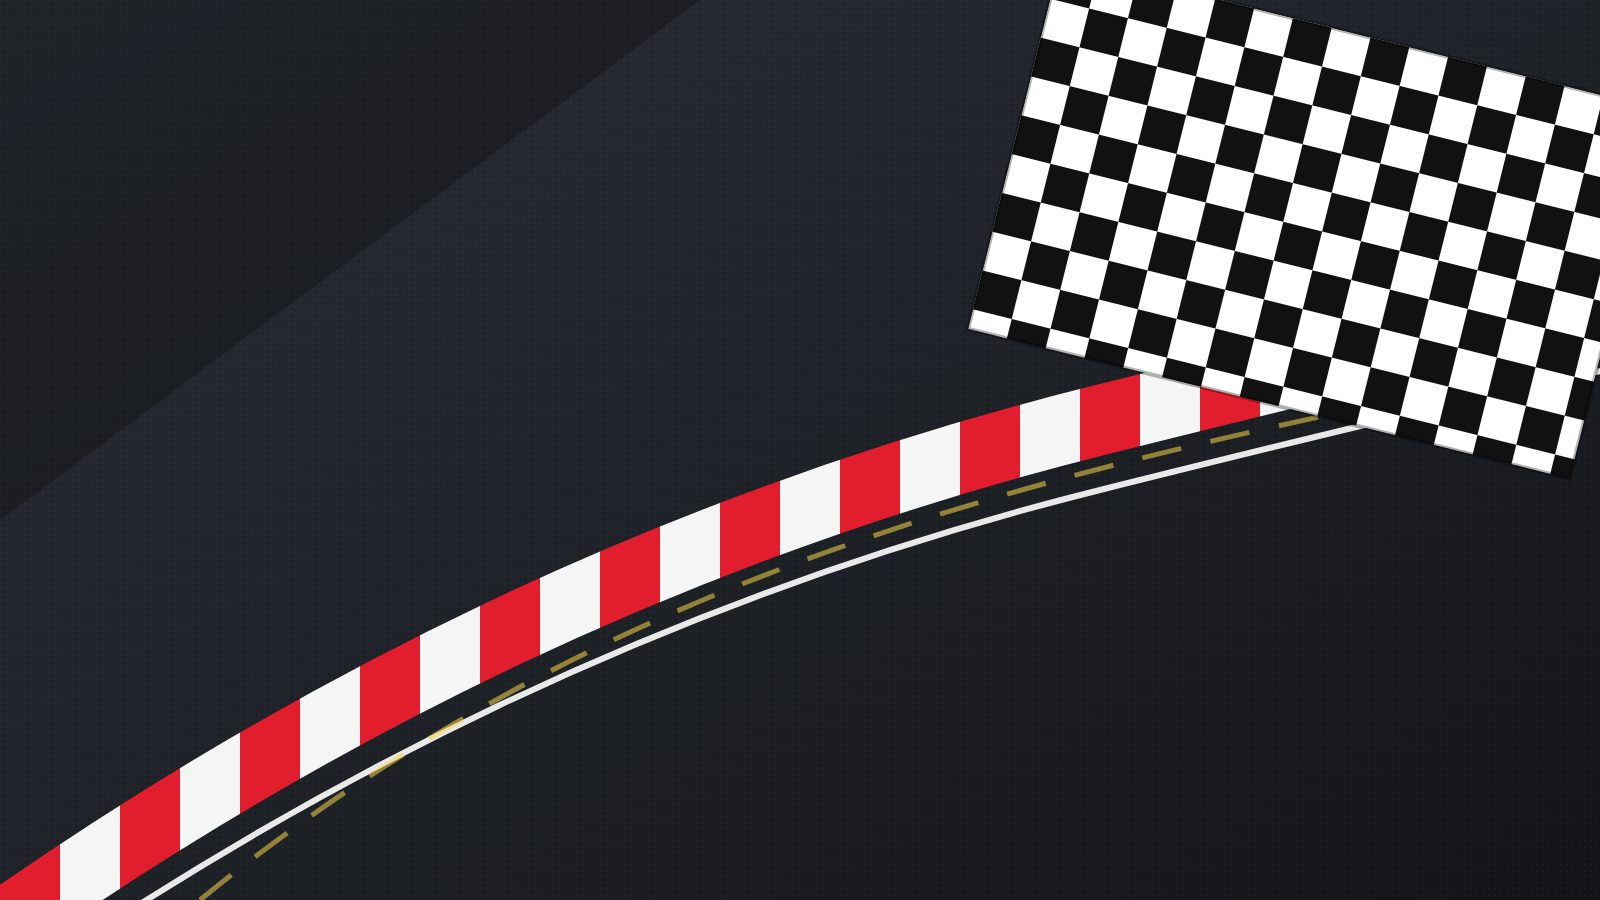
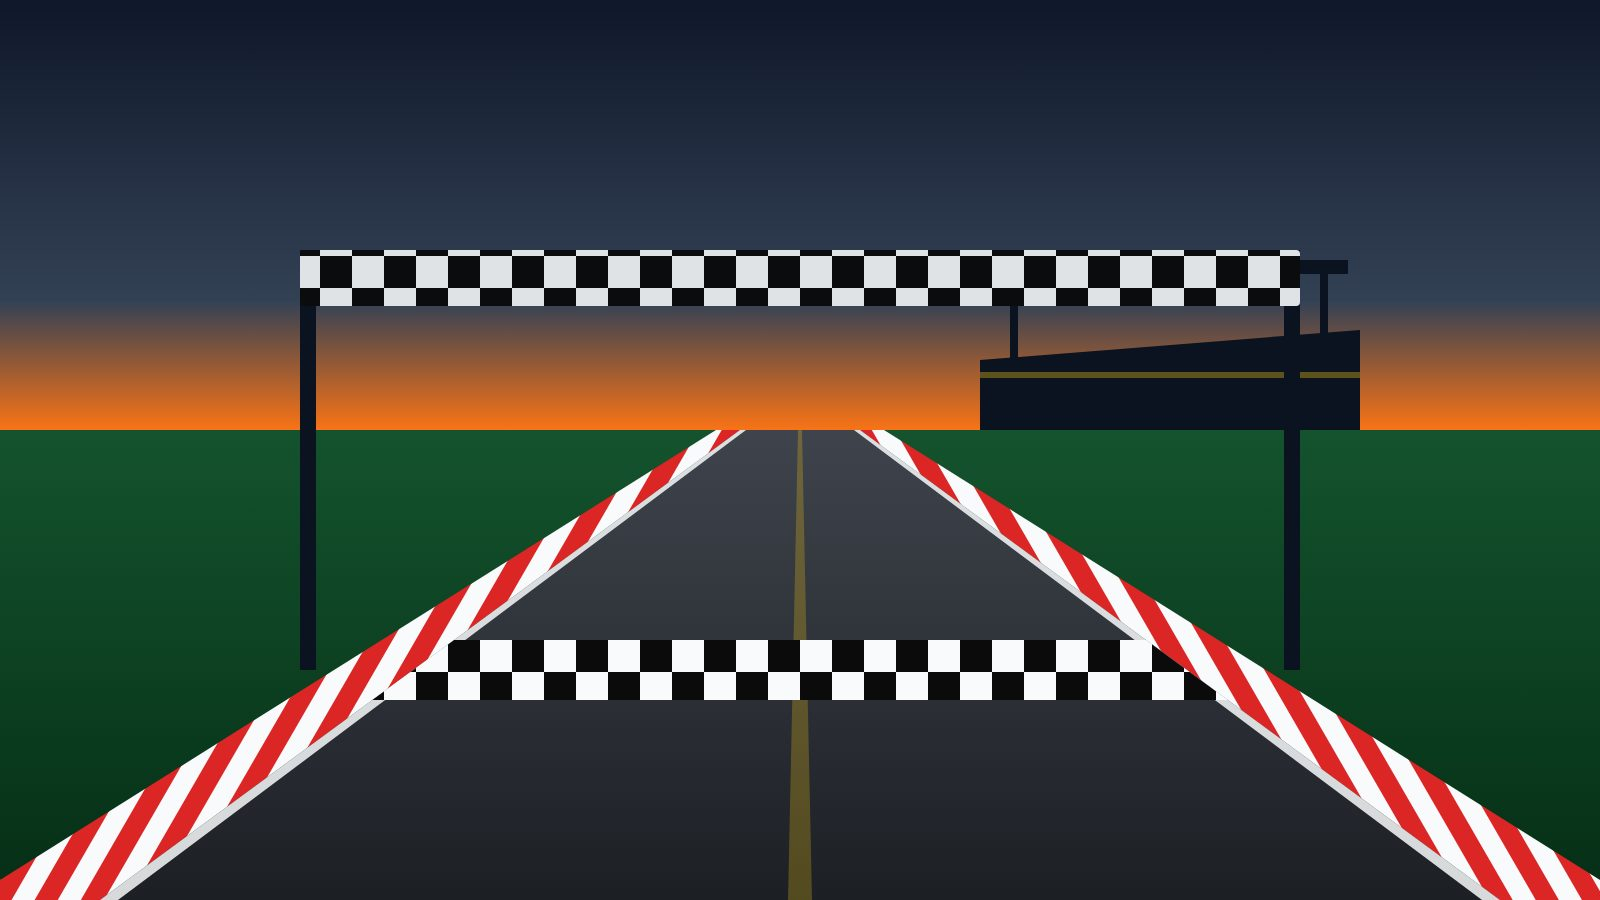
Fix iPhone date/time overlap app-wide; meet end time opt-in; redraw track cover
- Global CSS keeps date/time/datetime inputs inside their column
- Post a meet: date full width, start/end side by side, '+ Add end time'
  (iOS shows the current time in an empty time box)
- Track day cover: chequered finish line painted across the track

Claude-Session: https://claude.ai/code/session_01HtoV7u2WbuC2PmUiFt86iV

diff --git a/src/routes/meets/index.tsx b/src/routes/meets/index.tsx
@@ -243,6 +243,7 @@ function CreateMeetForm({ userId, onDone }: { userId: string; onDone: () => void
   const [date, setDate] = useState("");
   const [startTime, setStartTime] = useState("10:00");
   const [endTime, setEndTime] = useState("");
+  const [showEnd, setShowEnd] = useState(false);
   const [locationName, setLocationName] = useState("");
   const [address, setAddress] = useState("");
   const [coverUrl, setCoverUrl] = useState("");
@@ -299,7 +300,8 @@ function CreateMeetForm({ userId, onDone }: { userId: string; onDone: () => void
     }
   }
 
-  const input = "w-full rounded-md border border-input bg-background px-3 py-2 text-sm";
+  const input =
+    "block h-10 w-full min-w-0 max-w-full rounded-md border border-input bg-background px-3 text-sm";
   return (
     <form
       onSubmit={handleSubmit}
@@ -315,18 +317,18 @@ function CreateMeetForm({ userId, onDone }: { userId: string; onDone: () => void
         placeholder="Name, e.g. Sunday Cars & Coffee"
         className={input}
       />
-      <div className="grid grid-cols-3 gap-2">
-        <label className="col-span-3 text-xs font-medium sm:col-span-1">
-          Date
-          <input
-            type="date"
-            value={date}
-            onChange={(e) => setDate(e.target.value)}
-            required
-            className={`${input} mt-1`}
-          />
-        </label>
-        <label className="text-xs font-medium">
+      <label className="block text-xs font-medium">
+        Date
+        <input
+          type="date"
+          value={date}
+          onChange={(e) => setDate(e.target.value)}
+          required
+          className={`${input} mt-1`}
+        />
+      </label>
+      <div className="grid grid-cols-2 gap-2">
+        <label className="min-w-0 text-xs font-medium">
           Starts
           <input
             type="time"
@@ -336,15 +338,48 @@ function CreateMeetForm({ userId, onDone }: { userId: string; onDone: () => void
             className={`${input} mt-1`}
           />
         </label>
-        <label className="text-xs font-medium">
-          Ends (optional)
-          <input
-            type="time"
-            value={endTime}
-            onChange={(e) => setEndTime(e.target.value)}
-            className={`${input} mt-1`}
-          />
-        </label>
+        {/* An empty time box on iPhone shows the current time, which looks like
+            a real end time — so the end time is only shown once asked for. */}
+        {showEnd ? (
+          <label className="min-w-0 text-xs font-medium">
+            <span className="flex items-center justify-between">
+              Ends
+              <button
+                type="button"
+                onClick={() => {
+                  setShowEnd(false);
+                  setEndTime("");
+                }}
+                className="font-normal text-muted-foreground underline"
+              >
+                Remove
+              </button>
+            </span>
+            <input
+              type="time"
+              value={endTime}
+              onChange={(e) => setEndTime(e.target.value)}
+              className={`${input} mt-1`}
+            />
+          </label>
+        ) : (
+          <div className="min-w-0 text-xs font-medium">
+            <span className="invisible">Ends</span>
+            <button
+              type="button"
+              onClick={() => {
+                const [h, m] = (startTime || "10:00").split(":").map(Number);
+                setEndTime(
+                  `${String(((h ?? 10) + 3) % 24).padStart(2, "0")}:${String(m ?? 0).padStart(2, "0")}`,
+                );
+                setShowEnd(true);
+              }}
+              className="mt-1 flex h-10 w-full items-center justify-center rounded-md border border-dashed border-input text-sm font-medium text-muted-foreground hover:bg-accent"
+            >
+              + Add end time
+            </button>
+          </div>
+        )}
       </div>
       <input
         value={locationName}
@@ -368,7 +403,7 @@ function CreateMeetForm({ userId, onDone }: { userId: string; onDone: () => void
         maxLength={2000}
         rows={3}
         placeholder="What's the plan? Entry fee, parking, rules…"
-        className={`${input} resize-none`}
+        className="block w-full resize-none rounded-md border border-input bg-background px-3 py-2 text-sm"
       />
       <MeetCoverPicker userId={userId} value={coverUrl} onChange={setCoverUrl} />
       <div className="flex justify-end">

diff --git a/src/styles.css b/src/styles.css
@@ -254,3 +254,21 @@
   user-select: none;
   -webkit-tap-highlight-color: transparent;
 }
+
+/* iPhone Safari draws date/time inputs with a minimum width wider than many
+   form columns, so they spill into the next box. Keep them inside their
+   container, the same height as other inputs, with left-aligned values. */
+input[type="date"],
+input[type="time"],
+input[type="datetime-local"] {
+  min-width: 0;
+  max-width: 100%;
+  -webkit-appearance: none;
+  appearance: none;
+  min-height: 2.5rem;
+}
+input[type="date"]::-webkit-date-and-time-value,
+input[type="time"]::-webkit-date-and-time-value,
+input[type="datetime-local"]::-webkit-date-and-time-value {
+  text-align: left;
+}

diff --git a/src/lib/changelog.ts b/src/lib/changelog.ts
@@ -37,6 +37,8 @@ export const RELEASES: Release[] = [
     fixes: [
       "Compare now shows every car's photo at the same size, whatever shape the original photos are",
       "Vehicle details boxes no longer overlap on iPhone, and all the boxes are the same height",
+      'Date and time boxes no longer overlap anywhere on iPhone; on Post a meet the end time is now an optional "+ Add end time" button instead of showing the current time',
+      "The Track day meet cover now has the chequered finish line across the track",
     ],
   },
   {
